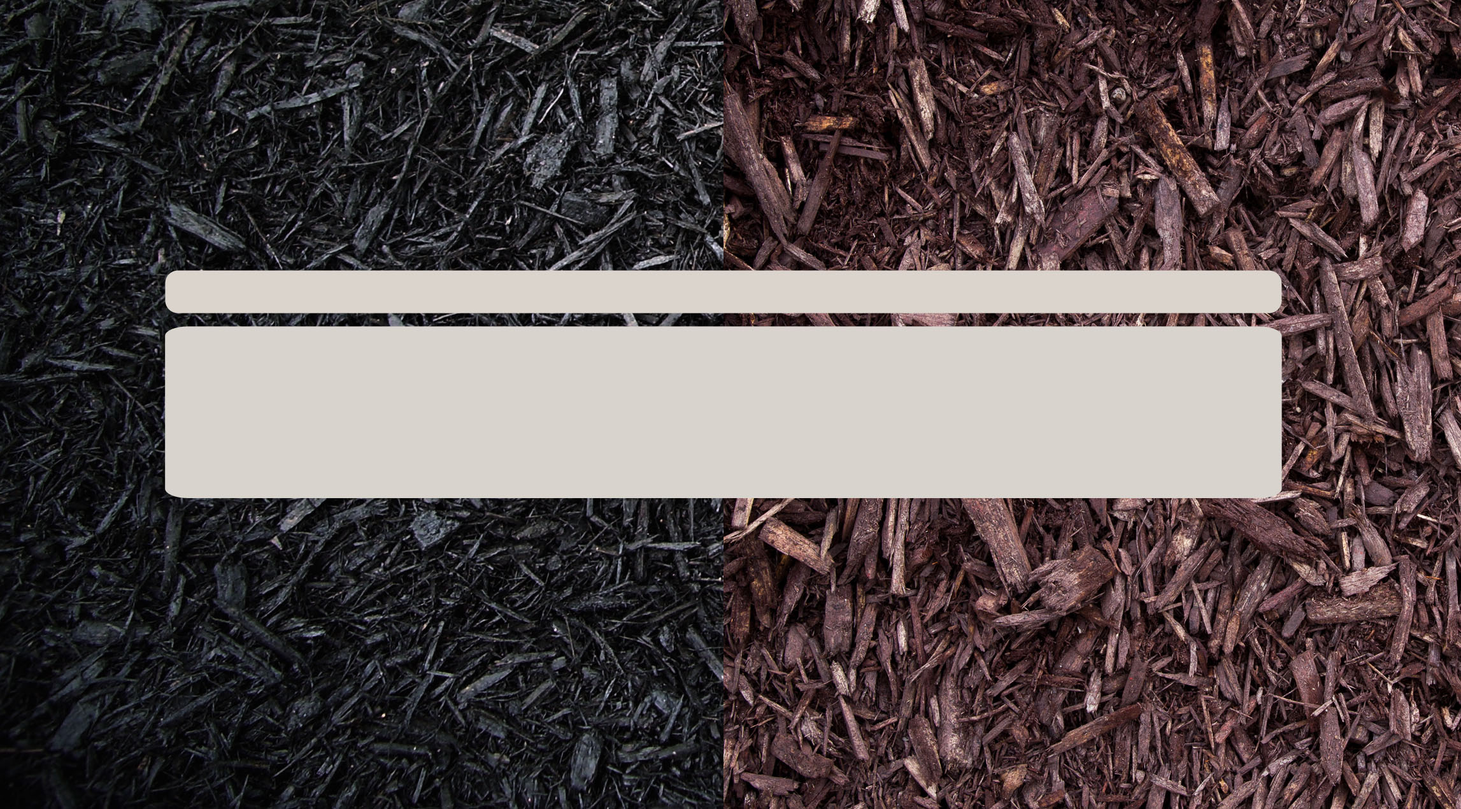
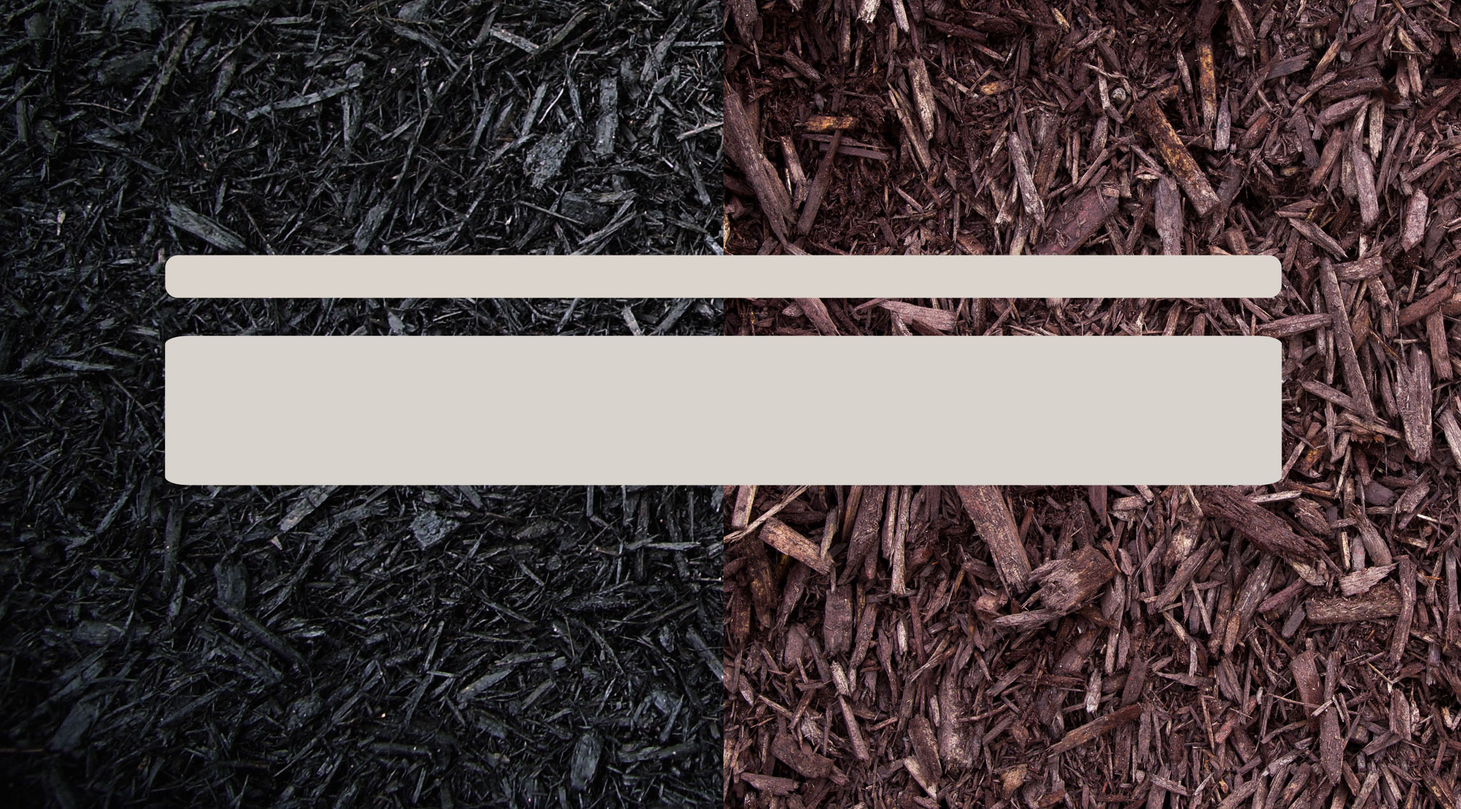
new picture, black text

Changed region(s): [[0.0929, 0.3685, 0.8976, 0.4299], [0.0929, 0.5835, 0.8976, 0.6142], [0.0929, 0.3071, 0.8976, 0.3378]]

diff --git a/css/templatemo-style.css b/css/templatemo-style.css
@@ -276,7 +276,7 @@ bootstrap.min.css:5
 	margin-top: 45px;
 	font-size: 17px;
 	font-weight: 500;
-	color: #fff;
+	color: #000000;
 	letter-spacing: 1px;
 }
 
